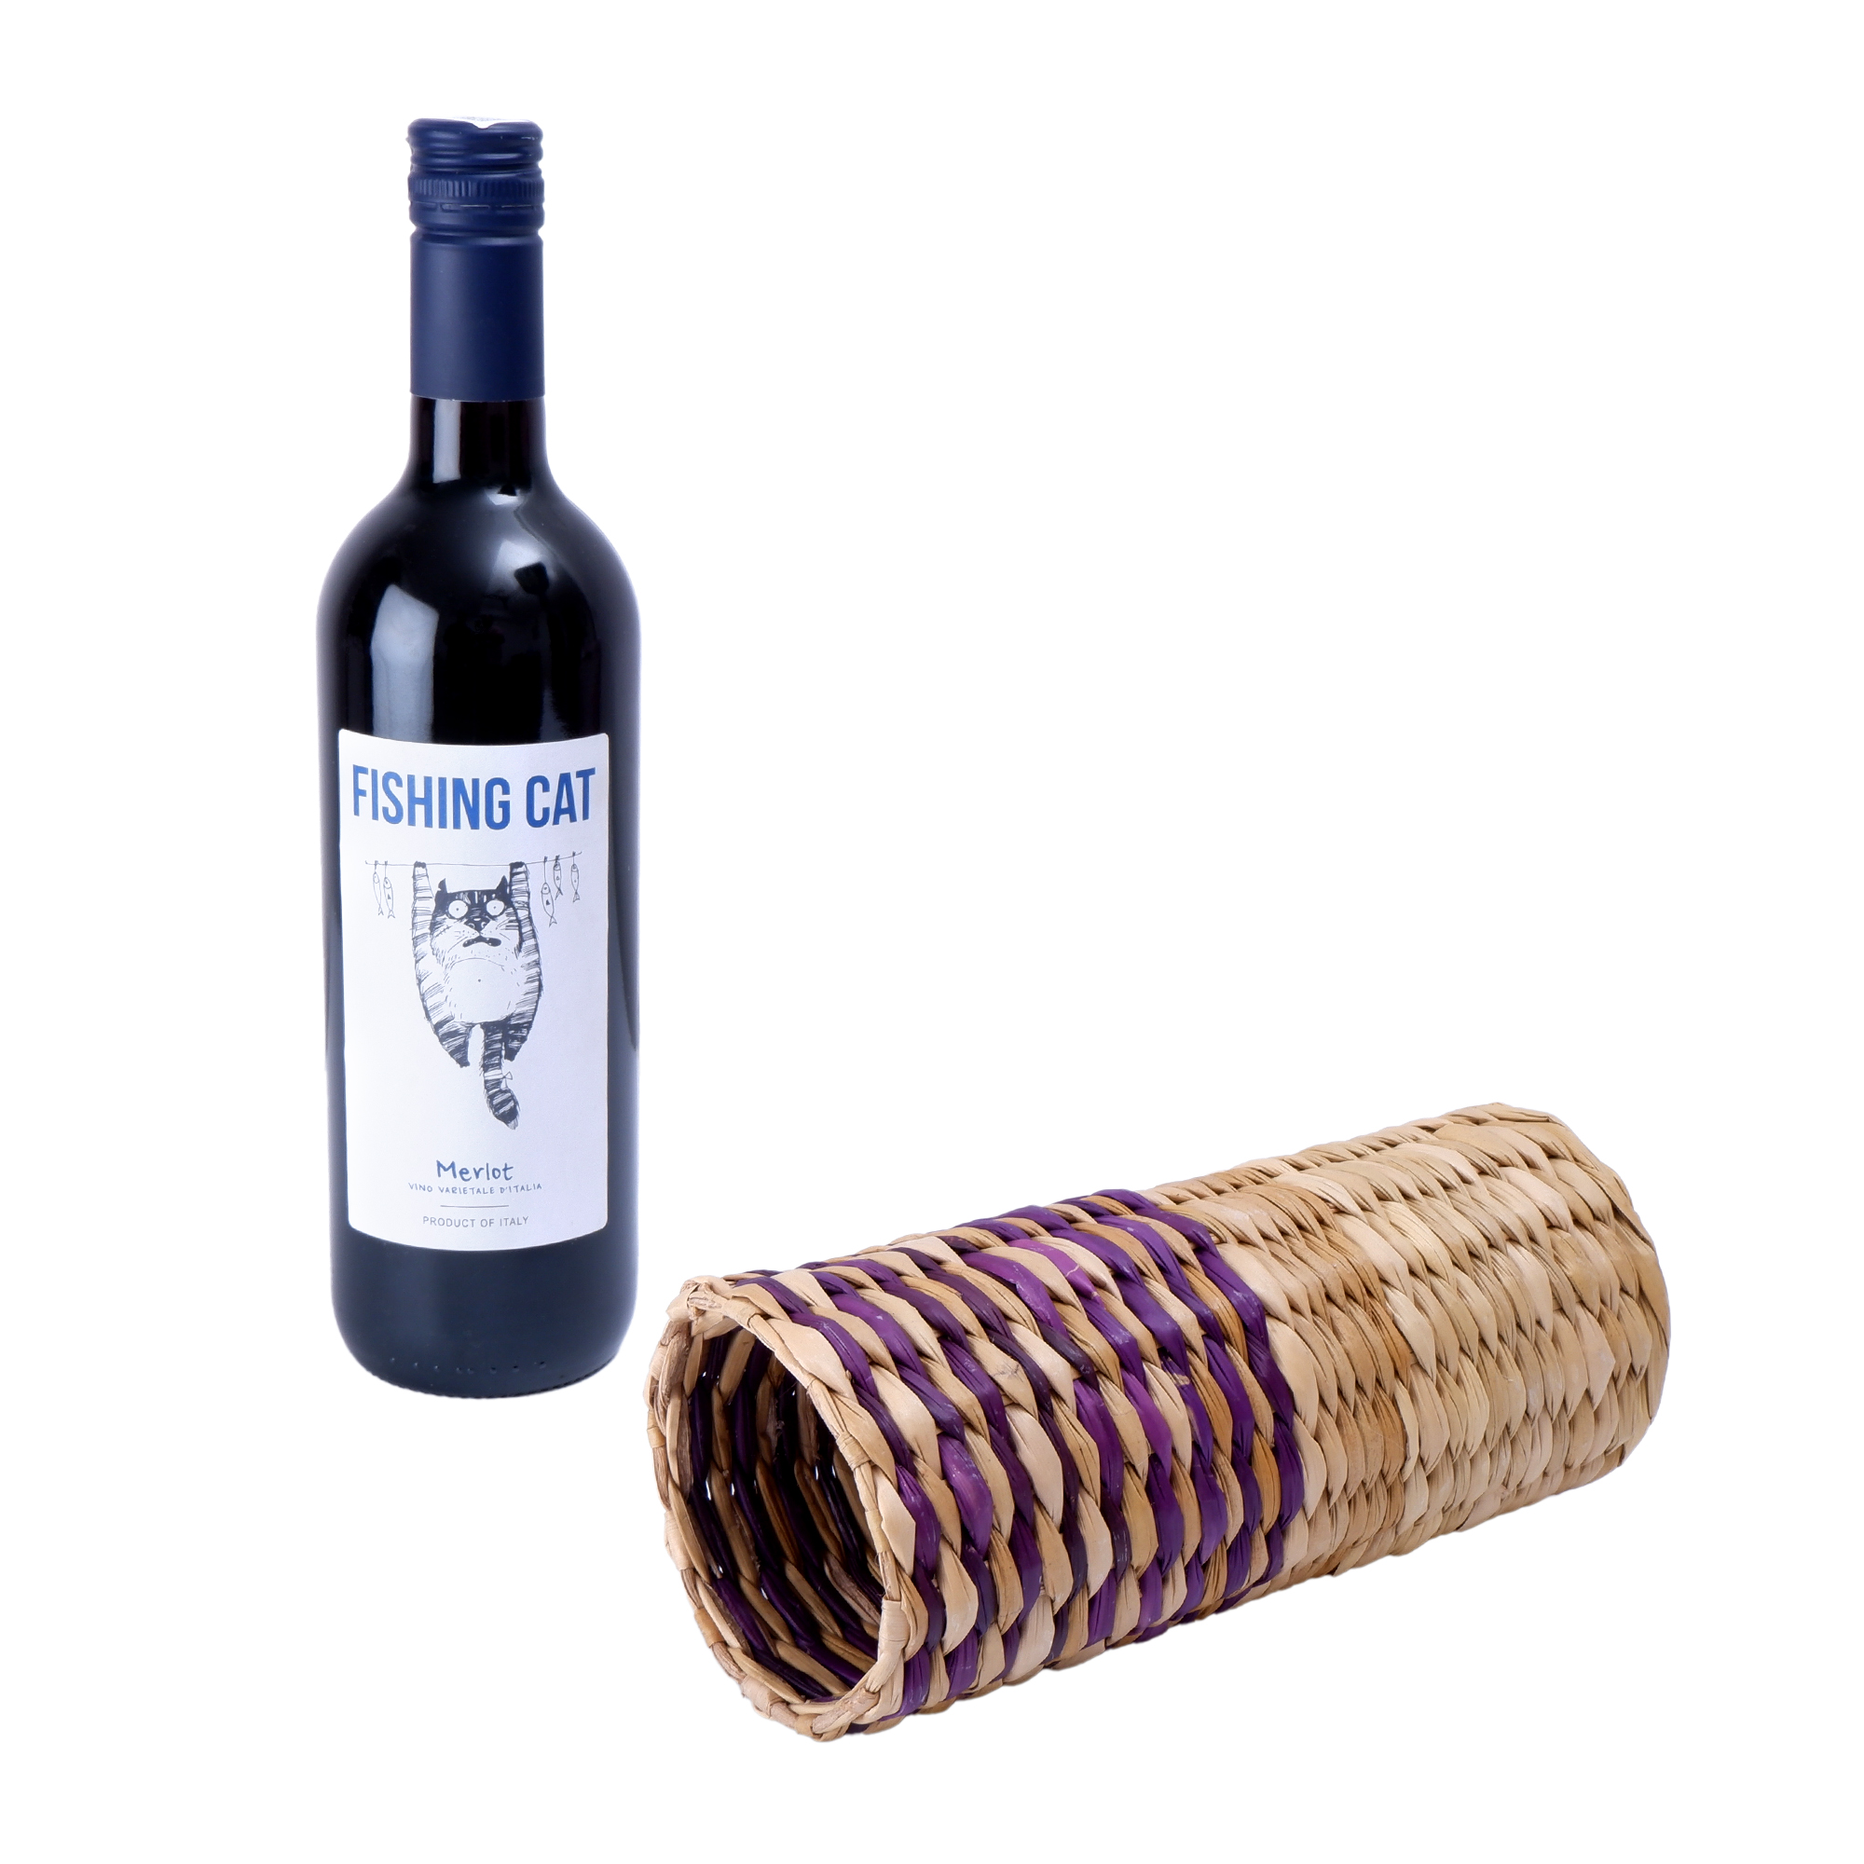
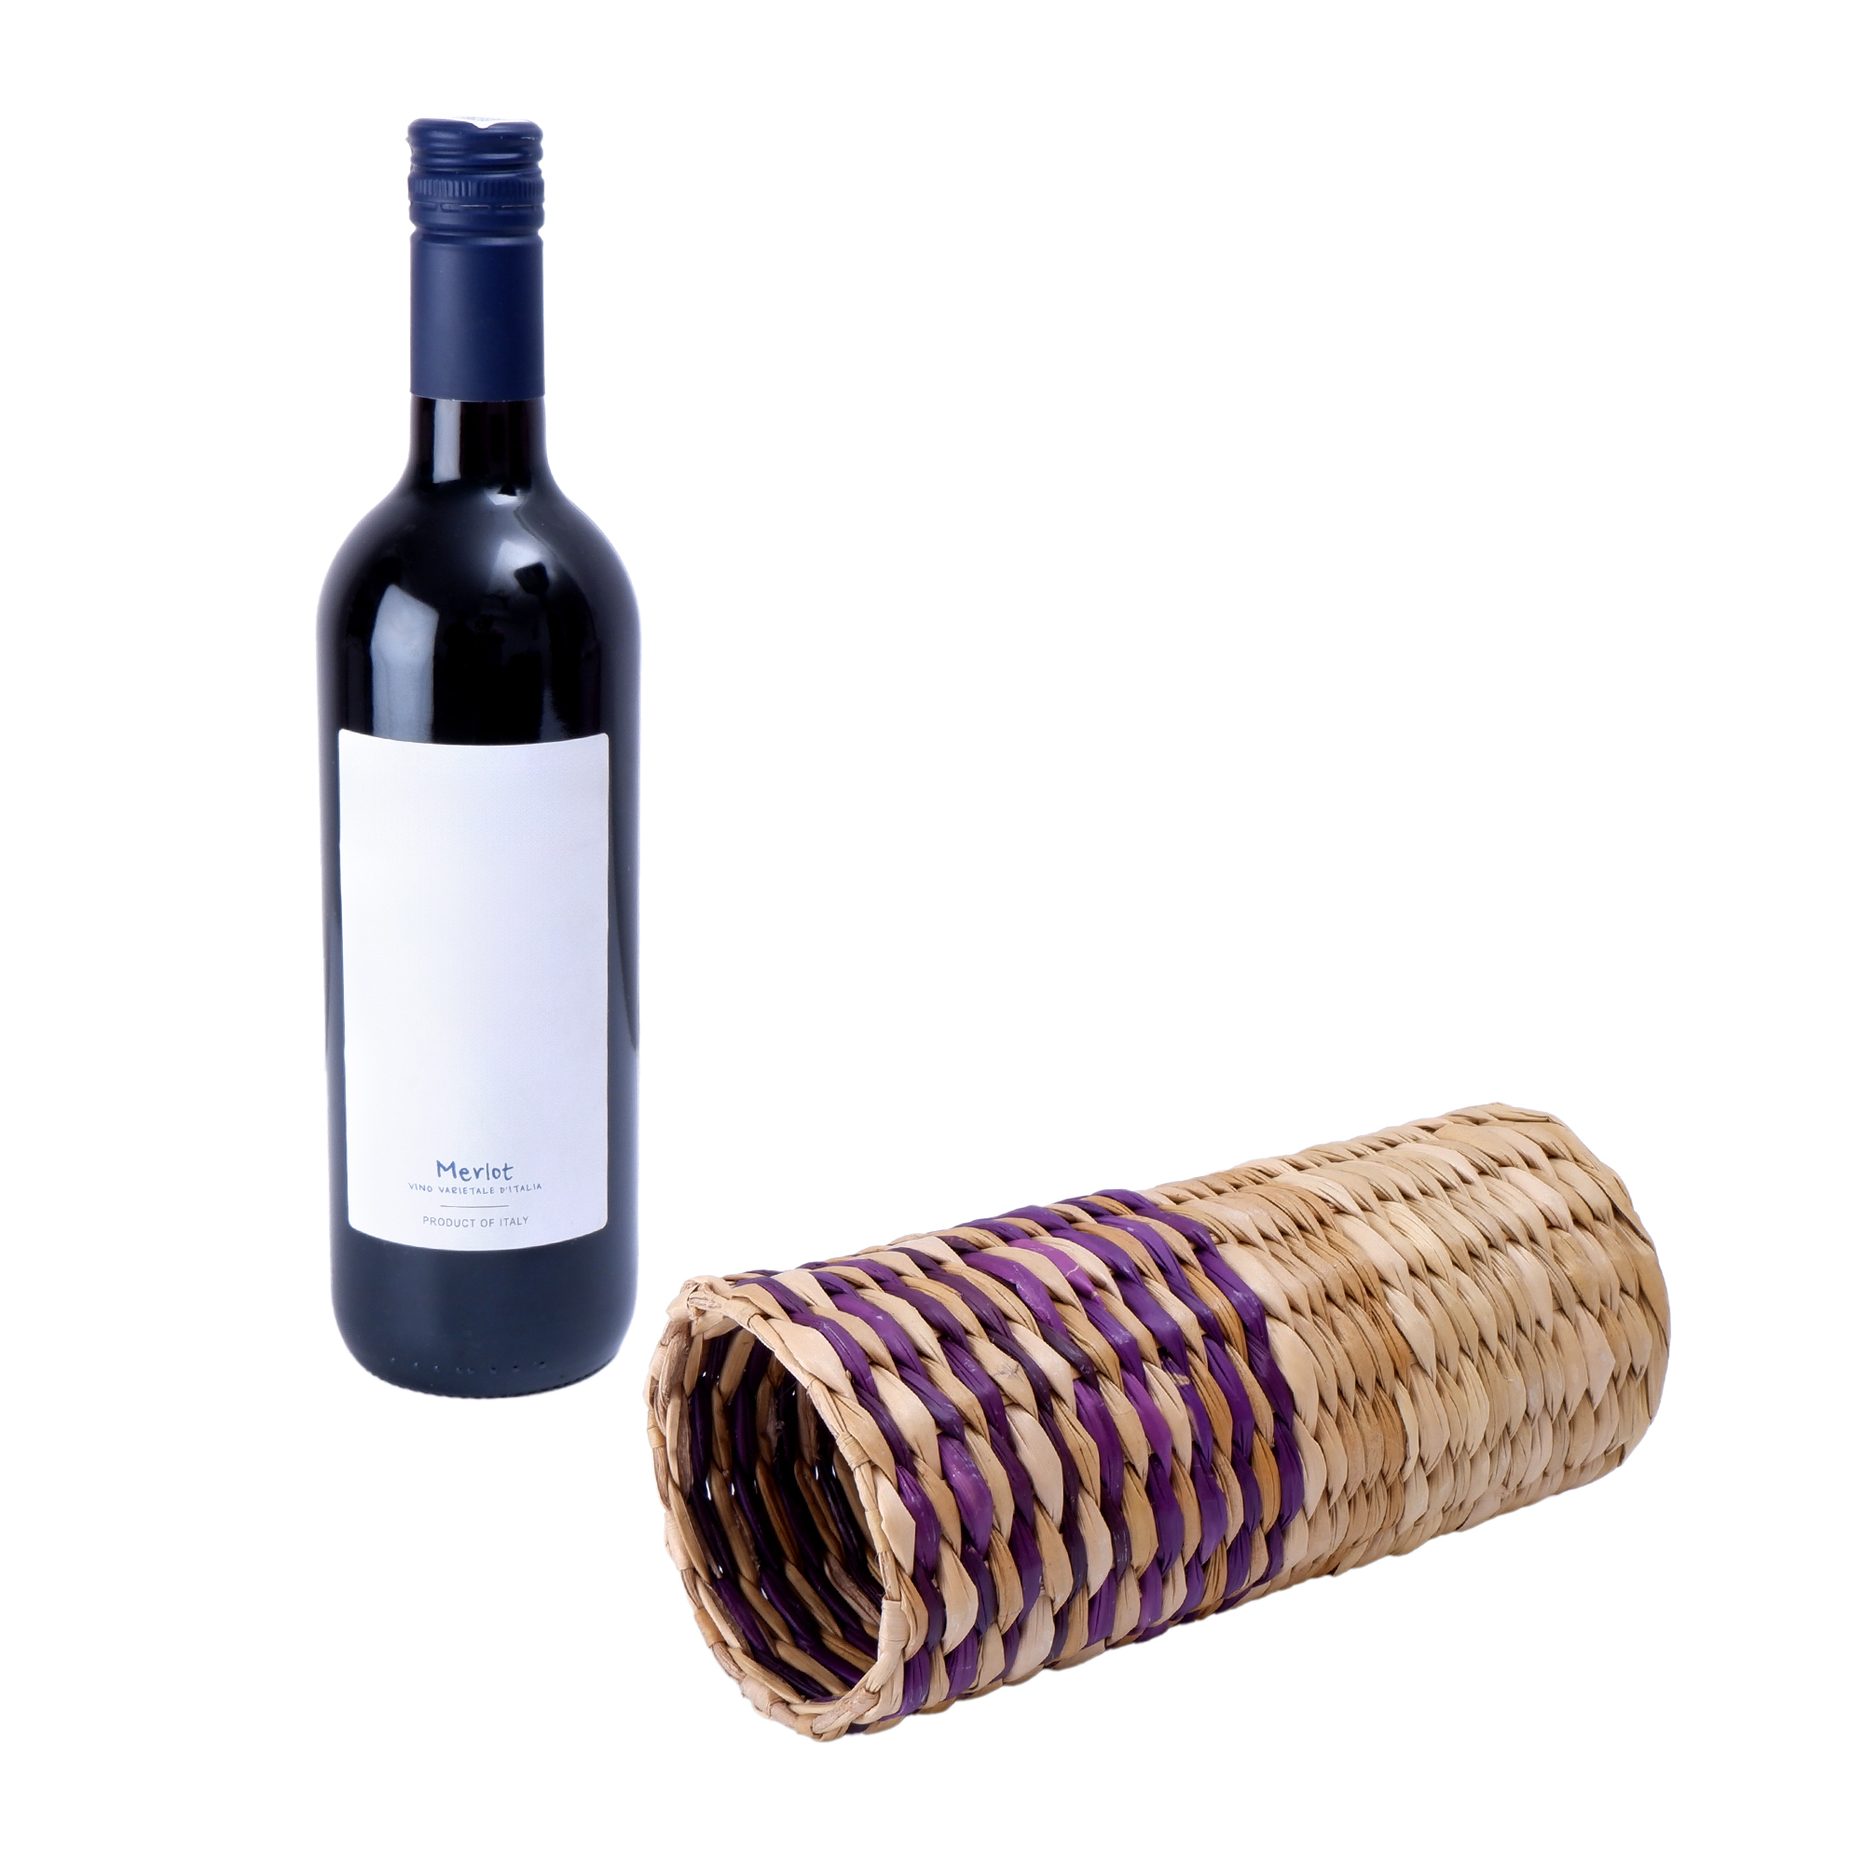
Update done and wine images replaced

Changed region(s): [[0.186, 0.403, 0.341, 0.62]]

diff --git a/index.html b/index.html
@@ -232,13 +232,13 @@
       </div> -->
 
       <div class="gallery">
-        <img src="images/Basket/1/DSCF5332.JPG" alt="Image 1">
-        <img src="images/Basket/6/DSCF5403.JPG" alt="Image 6">
-        <img src="images/Basket/2/DSCF5338.JPG" alt="Image 2">
+        <img src="images/Basket 3/2/DSCF6542.JPG" alt="Image 1">
+        <img src="images/Basket 3/5/DSCF6556.JPG" alt="Image 6">
+        <img src="images/Basket 3/6/DSCF6559.JPG" alt="Image 2">
         
-        <img src="images/Basket/4/DSCF5393.JPG" alt="Image 4">
-        <img src="images/Basket/3/DSCF5344.JPG" alt="Image 3">
-        <img src="images/Basket/7/DSCF5374.JPG" alt="Image 7">
+        <img src="images/Basket 3/1/DSCF6536.JPG" alt="Image 4">
+        <img src="images/Basket/6/DSCF5403.JPG" alt="Image 3">
+        <img src="images/Basket 3/9/DSCF7559 (1).JPG" alt="Image 7">
     </div>
       <div class="btn-box">
         <a href="gallery.html">
@@ -307,7 +307,7 @@
                 Handbags
               </h5>
               <p>
-                Explore our range of decorative baskets, handcrafted to perfection. These versatile pieces can be used for storage, display, or simply as stunning additions to your living spaces.
+                Our handbags are the perfect blend of style, sustainability, and functionality. Made from high-quality natural fibers, these bags are designed to cater to eco-friendly practices. They are Functional and Practical with ample space for daily essentials, groceries, or work-related items. Lightweight and easy to carry, making them ideal for everyday use.Sturdy enough to handle a full load of groceries or market purchases.
               </p>
               <a href="handbags.html">
                 Read More
@@ -325,7 +325,7 @@
                 Trays
               </h5>
               <p>
-                Embrace the beauty and sustainability of handwoven craftsmanship with our Handwoven Serving Tray. Perfect for those who appreciate natural materials and timeless design, this tray adds a touch of elegance and practicality to any home. Whether you’re serving guests or organizing your space, our trays provides a stylish and eco-friendly solution. Order yours today and bring a piece of handcrafted artistry into your home.
+                Embrace the beauty and sustainability of handwoven craftsmanship with our Serving Tray. Perfect for those who appreciate natural materials and timeless design, this tray adds a touch of elegance and practicality to any home. Whether you’re serving guests or organizing your space, our trays provides a stylish and eco-friendly solution. Order yours today and bring a piece of handcrafted artistry into your home.
               </p>
               <a href="trays.html">
                 Read More
@@ -381,7 +381,9 @@
                 Wine holder
               </h5>
               <p>
-                Explore our range of decorative baskets, handcrafted to perfection. These versatile pieces can be used for storage, display, or simply as stunning additions to your living spaces.
+                 A wine holder is an eco-friendly and stylish accessory designed for carrying and presenting wine bottles.
+                 <!-- Typically, cylindrical to snugly fit a standard wine bottle. -->
+It can be used for promotional purposes by wineries. All in all, a wine holder combines functionality with aesthetic appeal, making it a practical and stylish choice for wine enthusiasts and eco-conscious consumers. It can be used for gifting wine, adding a rustic and elegant touch to the presentation; storing wines keeping them organized and protected.
               </p>
               <a href="wine.html">
                 Read More
@@ -399,7 +401,9 @@
                 Table matt
               </h5>
               <p>
-                Illuminate your home with the warm glow of our cane lampshades. Each shade is meticulously woven to create patterns that dance with light, casting a serene ambiance in room.
+                Add a touch of natural charm to your dining table with our exquisite Handwoven table mat. Crafted with care and precision, this mat brings a blend of rustic beauty and modern functionality, perfect for any home decor style. Made from 100% high-quality jute, a biodegradable fiber that adds a warm, organic feel to your dining area.
+ Durable and Long-Lasting, its sturdy construction designed to withstand daily use. Ideal for both indoor and outdoor dining settings. 
+ <!-- It is Perfect for casual family meals, elegant dinner parties, or festive gatherings. Easy to maintain, you can simply shake off crumbs or gently spot clean with a damp cloth.  -->
               </p>
               <a href="matt.html">
                 Read More
@@ -836,7 +840,7 @@
             Contact Us
           </h4>
           <div class="info_contact">
-            <a href="https://maps.app.goo.gl/PFg7fvRXS8s3RxhZ8">
+            <a href="https://maps.app.goo.gl/qQQ3qaSG89E1QxCR8?g_st=com.google.maps.preview.copy">
               <i class="fa fa-map-marker" aria-hidden="true"></i>
               <span>
                 Location

diff --git a/wine.html b/wine.html
@@ -54,8 +54,8 @@
                 <a href="index.html">Home</a>
                 <a href="about.html">About</a>
                 <a href="gallery.html">Gallery</a>
-                <a href="service.html">Service</a>
-                <a href="blog.html">Blog</a>
+                <!-- <a href="service.html">Service</a>
+                <a href="blog.html">Blog</a> -->
               </div>
             </div>
           </div>
@@ -84,7 +84,9 @@
               </h2>
             </div>
             <p>
-              Embrace the beauty and sustainability of handwoven craftsmanship with our Handwoven Serving Tray. Perfect for those who appreciate natural materials and timeless design, this tray adds a touch of elegance and practicality to any home. Whether you’re serving guests or organizing your space, our trays provides a stylish and eco-friendly solution. Order yours today and bring a piece of handcrafted artistry into your home.
+              A wine holder is an eco-friendly and stylish accessory designed for carrying and presenting wine bottles. Typically, cylindrical to snugly fit a standard wine bottle. 
+It can be used for promotional purposes by wineries or as corporate gifts. All in all, a wine holder combines functionality with aesthetic appeal, making it a practical and stylish choice for wine enthusiasts and eco-conscious consumers. It can be used for gifting wine, adding a rustic and elegant touch to the presentation; storing wines keeping them organized and protected. It is also ideal for transporting wine to picnics, parties, or other events.
+
             </p>
           </div>
         </div>
@@ -105,8 +107,8 @@
         </div>
         <div class="col-sm-4 col-md-3 px-0">
           <div class="img-box">
-            <img src="images/basket/6/DSCF5405.JPG" alt="">
-            <a href="images/basket/6/DSCF5405.JPG" data-toggle="lightbox" data-gallery="gallery">
+            <img src="images/Basket/6/DSCF5405.JPG" alt="">
+            <a href="images/Basket/6/DSCF5405.JPG" data-toggle="lightbox" data-gallery="gallery">
               <i class="fa fa-picture-o" aria-hidden="true"></i>
             </a>
           </div>

diff --git a/handbags.html b/handbags.html
@@ -54,8 +54,8 @@
                 <a href="index.html">Home</a>
                 <a href="about.html">About</a>
                 <a href="gallery.html">Gallery</a>
-                <a href="service.html">Service</a>
-                <a href="blog.html">Blog</a>
+                <!-- <a href="service.html">Service</a>
+                <a href="blog.html">Blog</a> -->
               </div>
             </div>
           </div>
@@ -84,7 +84,11 @@
               </h2>
             </div>
             <p>
-              Embrace a blend of tradition and sustainability with a laundry basket that stands out for its beauty and utility. Perfect for eco-conscious individuals who value quality and craftsmanship, our Handcrafted Bamboo Laundry Basket is designed to enhance your home’s decor while providing a practical solution for laundry and storage. Order today and bring home a piece of handcrafted excellence.
+              Our handbags are the perfect blend of style, sustainability, and functionality. Made from high-quality natural fibers, these bags are designed to cater to eco-friendly practices. They are Functional and Practical with ample space for daily essentials, groceries, or work-related items. Lightweight and easy to carry, making them ideal for everyday use.
+            </p>
+            <p>
+              Can be used for shopping and groceries: Sturdy enough to handle a full load of groceries or market purchases; Beach or Picnic Outings: Spacious and durable, perfect for carrying beach essentials or picnic items; Work and Travel: Stylish enough for professional use, with sufficient space for laptops, notebooks, and travel essentials.
+
             </p>
           </div>
         </div>

diff --git a/matt.html b/matt.html
@@ -54,8 +54,8 @@
                 <a href="index.html">Home</a>
                 <a href="about.html">About</a>
                 <a href="gallery.html">Gallery</a>
-                <a href="service.html">Service</a>
-                <a href="blog.html">Blog</a>
+                <!-- <a href="service.html">Service</a>
+                <a href="blog.html">Blog</a> -->
               </div>
             </div>
           </div>
@@ -84,7 +84,7 @@
               </h2>
             </div>
             <p>
-              Embrace the beauty and sustainability of handwoven craftsmanship with our Handwoven Serving Tray. Perfect for those who appreciate natural materials and timeless design, this tray adds a touch of elegance and practicality to any home. Whether you’re serving guests or organizing your space, our trays provides a stylish and eco-friendly solution. Order yours today and bring a piece of handcrafted artistry into your home.
+              
             </p>
           </div>
         </div>
@@ -111,7 +111,7 @@
             </a>
           </div>
         </div>
-        <div class="col-sm-4 col-md-3 px-0">
+        <!-- <div class="col-sm-4 col-md-3 px-0">
           <div class="img-box">
             <img src="images/basket 3/7/DSCF6564.JPG" alt="">
             <a href="images/basket 3/7/DSCF6564.JPG" data-toggle="lightbox" data-gallery="gallery">
@@ -126,7 +126,7 @@
               <i class="fa fa-picture-o" aria-hidden="true"></i>
             </a>
           </div>
-        </div>
+        </div> -->
         <!-- <div class="col-sm-4 col-md-3 px-0">
           <div class="img-box">
             <img src="images/g5.jpg" alt="">

diff --git a/gallery.html b/gallery.html
@@ -57,8 +57,8 @@
                 <a href="index.html">Home</a>
                 <a href="about.html">About</a>
                 <a href="gallery.html">Gallery</a>
-                <a href="service.html">Service</a>
-                <a href="blog.html">Blog</a>
+                <!-- <a href="service.html">Service</a>
+                <a href="blog.html">Blog</a> -->
               </div>
             </div>
           </div>
@@ -128,8 +128,8 @@
         </div>
         <div class="col-sm-4 col-md-3 px-0">
           <div class="img-box">
-            <img src="images/Basket 3/6/DSCF6561.JPG" alt="">
-            <a href="images/Basket 3/6/DSCF6561.JPG" data-toggle="lightbox" data-gallery="gallery">
+            <img src="images/Basket/6/DSCF5403.JPG" alt="">
+            <a href="images/Basket/6/DSCF5403.JPG" data-toggle="lightbox" data-gallery="gallery">
               <i class="fa fa-picture-o" aria-hidden="true"></i>
             </a>
           </div>

diff --git a/Laundary.html b/Laundary.html
@@ -54,8 +54,8 @@
                 <a href="index.html">Home</a>
                 <a href="about.html">About</a>
                 <a href="gallery.html">Gallery</a>
-                <a href="service.html">Service</a>
-                <a href="blog.html">Blog</a>
+                <!-- <a href="service.html">Service</a>
+                <a href="blog.html">Blog</a> -->
               </div>
             </div>
           </div>

diff --git a/about.html b/about.html
@@ -54,8 +54,8 @@
                 <a href="index.html">Home</a>
                 <a href="about.html">About</a>
                 <a href="gallery.html">Gallery</a>
-                <a href="service.html">Service</a>
-                <a href="blog.html">Blog</a>
+                <!-- <a href="service.html">Service</a>
+                <a href="blog.html">Blog</a> -->
               </div>
             </div>
           </div>

diff --git a/planter.html b/planter.html
@@ -54,8 +54,8 @@
                 <a href="index.html">Home</a>
                 <a href="about.html">About</a>
                 <a href="gallery.html">Gallery</a>
-                <a href="service.html">Service</a>
-                <a href="blog.html">Blog</a>
+                <!-- <a href="service.html">Service</a>
+                <a href="blog.html">Blog</a> -->
               </div>
             </div>
           </div>

diff --git a/trays.html b/trays.html
@@ -54,8 +54,8 @@
                 <a href="index.html">Home</a>
                 <a href="about.html">About</a>
                 <a href="gallery.html">Gallery</a>
-                <a href="service.html">Service</a>
-                <a href="blog.html">Blog</a>
+                <!-- <a href="service.html">Service</a>
+                <a href="blog.html">Blog</a> -->
               </div>
             </div>
           </div>
